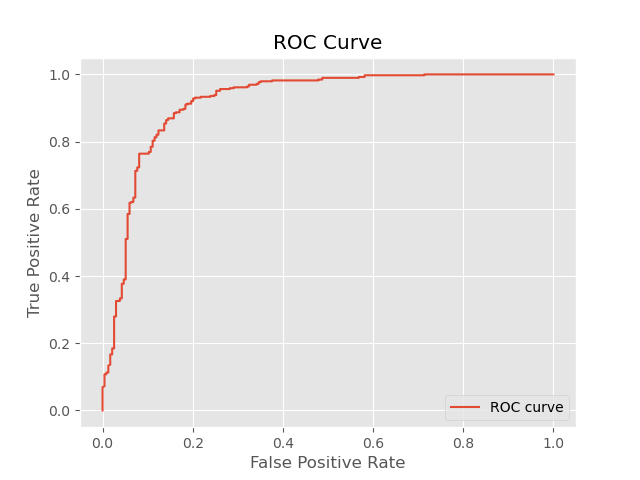
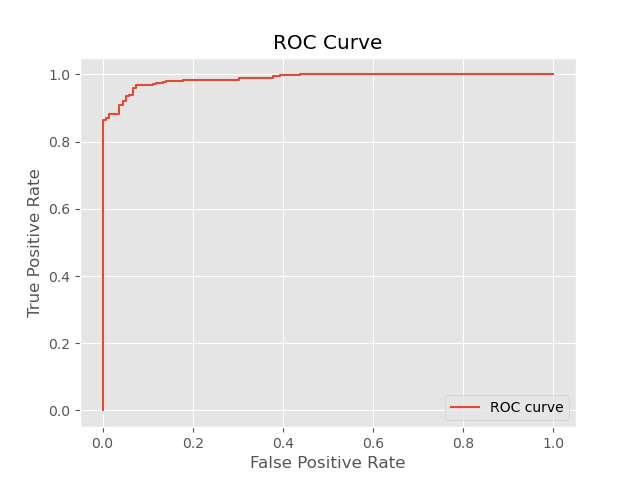
Added additional metrics

diff --git a/main.py b/main.py
@@ -11,7 +11,7 @@ import torch
 import time
 from torchvision import transforms
 import numpy as np
-from sklearn.metrics import f1_score, roc_auc_score, roc_curve
+from sklearn.metrics import f1_score, roc_auc_score, roc_curve, precision_score, recall_score, confusion_matrix, accuracy_score, ConfusionMatrixDisplay
 from sklearn.model_selection import train_test_split
 
 if __name__ == '__main__': 
@@ -151,9 +151,29 @@ if __name__ == '__main__':
 			preds.extend(pred)
 			# add the ground-truth to the list
 			gt.extend(y.numpy())
-	# calculate the F1 score and AUC ROC score
+	
 	preds = np.array(preds)
 	gt = np.array(gt)
+	# calculate the accuracy
+	acc = accuracy_score(gt, preds.round())
+	print("[INFO] Accuracy: {:.4f}".format(acc))
+	# calculate Precision and Recall per class
+	precision = precision_score(gt, preds.round())
+	recall = recall_score(gt, preds.round())
+	print("[INFO] Pneumonia Precision: {:.4f}".format(precision))
+	print("[INFO] Pneumonia Recall: {:.4f}".format(recall))
+	# precision and recall for other class
+	precision = precision_score(gt, preds.round(), pos_label=0)
+	recall = recall_score(gt, preds.round(), pos_label=0)
+	print("[INFO] Normal Precision: {:.4f}".format(precision))
+	print("[INFO] Normal Recall: {:.4f}".format(recall))
+	# Get confusion Matrix plot
+	cm = confusion_matrix(gt, preds.round())
+	disp = ConfusionMatrixDisplay(confusion_matrix=cm, display_labels=["Normal", "Pneumonia"])
+	# Save confusion matrix plot
+	disp.plot()
+	plt.savefig("confusion_matrix.png")	
+	# calculate the F1 score and AUC ROC score	
 	f1 = f1_score(gt, preds.round())
 	print("[INFO] F1 score: {:.4f}".format(f1))
 	# calculate the AUC ROC score

diff --git a/models.py b/models.py
@@ -13,12 +13,14 @@ class CNNBasic(Module):
         self.conv2 = ConvBlock(in_channels=12, out_channels=24)
         self.conv3 = ConvBlock(in_channels=24, out_channels=48, kernel_size=(5, 5))
         self.conv4 = ConvBlock(in_channels=48, out_channels=96, kernel_size=(5, 5))
+        self.conv5 = ConvBlock(in_channels=96, out_channels=192, kernel_size=(5, 5))
+        self.conv6 = ConvBlock(in_channels=192, out_channels=384, kernel_size=(5, 5))
 
 
-        self.fc1 = Linear(in_features=75264, out_features=1000)
+        self.fc1 = Linear(in_features=6144, out_features=500)
         self.relu5 = ReLU()
 
-        self.fc2 = Linear(in_features=1000, out_features=classes)
+        self.fc2 = Linear(in_features=500, out_features=classes)
         
     def forward(self, x):
         x = self.conv1(x)
@@ -28,6 +30,10 @@ class CNNBasic(Module):
         x = self.conv3(x)
 
         x = self.conv4(x)
+
+        x = self.conv5(x)
+
+        x = self.conv6(x)
 
         x = flatten(x, 1)
         x = self.fc1(x)
